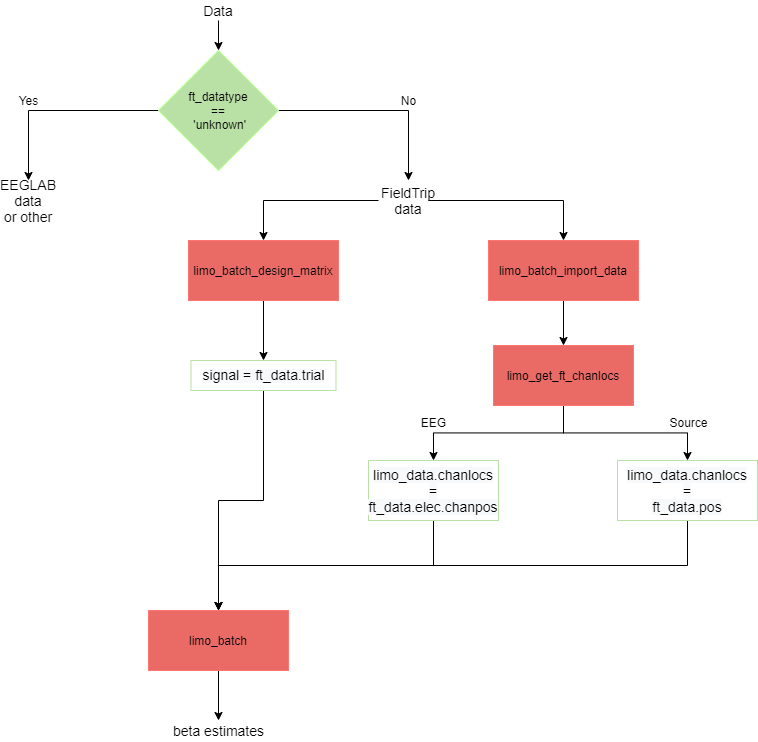
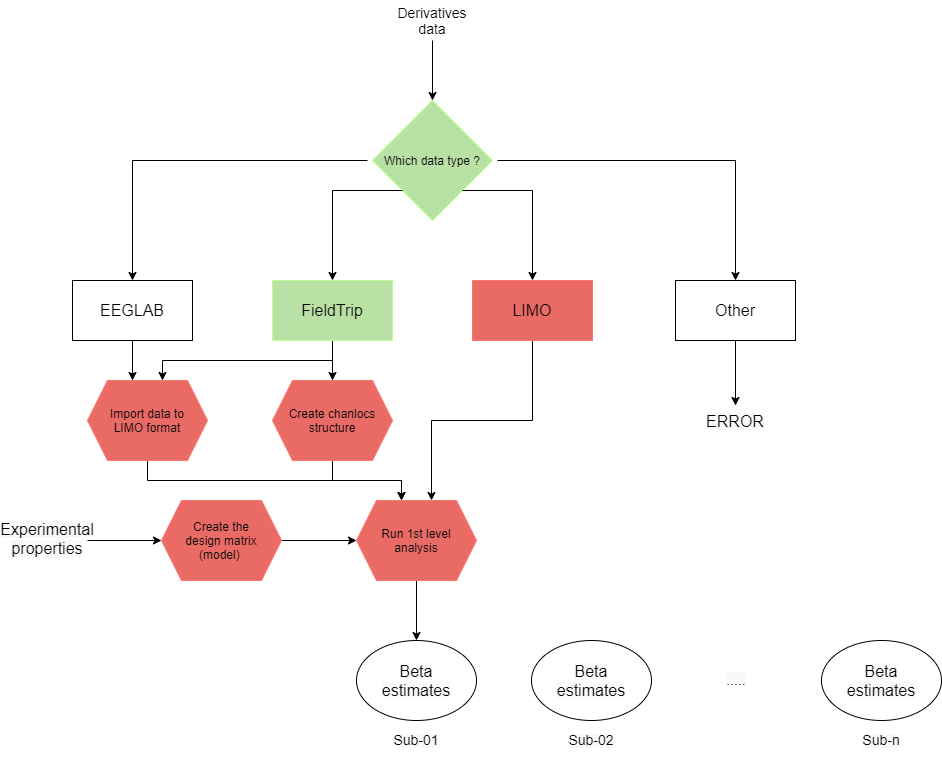
DEV - updated LIMO documentation

diff --git a/getting_started/limo.md b/getting_started/limo.md
@@ -7,7 +7,7 @@ tags: [statistics, GLM, limo, eeg]
 
 ## Background
 
-**[LIMO EEG](https://github.com/LIMO-EEG-Toolbox/limo_tools/wiki)** is a free open source and open development toolbox for the statistical analysis of EEG data. The main goal of the toolbox is the analysis and formal testing for experimental effects at all electrodes/sensors and
+**[LIMO EEG](https://github.com/LIMO-EEG-Toolbox/limo_tools/wiki)** is a free open source and open development toolbox for the statistical analysis of EEG data ([Pernet *et al.*, 2011](https://doi.org/10.1155/2011/831409)). The main goal of the toolbox is the analysis and formal testing for experimental effects at all electrodes/sensors and
 all time points of EEG recordings, as well as in source space. LIMO EEG offers a large range of statistical features:
 - Tests (including many popular designs): linear regressions, ANOVAs, ANCOVAs.
 - Methods: mass univariate general linear analysis, spatiotemporal clustering and bootstrapping for multiple comparison correction
@@ -15,7 +15,7 @@ all time points of EEG recordings, as well as in source space. LIMO EEG offers a
 	1. within-subject variance (single trial analyses)
 	2. between-subject variance
 
-The following figure illustrates the hierarchical analysis [1]:
+The following figure illustrates the hierarchical analysis:
 ![LIMO hierarchical analysis](/assets/img/getting_started/limo/herarchical_analysis.png)
 {% include image src="/assets/img/getting_started/limo/herarchical_analysis.png" width="300" %}
 
@@ -28,27 +28,42 @@ Although the toolbox is primarily designed for EEG data, LIMO EEG can process ME
 
 ## Data format
 
-As LIMO EEG directly reads and writes data from/to disk, the recommended way to design the dataset is through **[Brain Imaging Data Structure (BIDS) standard](https://bids.neuroimaging.io/index.html)**. This standard aims to organise and describe neuroimaging data in a uniform way to simplify data sharing through the scientific community. The following figure gives an example of BIDS EEG dataset [2]:
-![BIDS EEG dataset](/assets/img/getting_started/limo/BIDS_example.png)
-{% include image src="/assets/img/getting_started/limo/BIDS_example.png" width="300" %}
+As LIMO EEG directly reads and writes data from/to disk, the recommended way to design the dataset is through **[Brain Imaging Data Structure (BIDS) standard](https://bids.neuroimaging.io/index.html)**. This standard aims to organise and describe neuroimaging data in a uniform way to simplify data sharing through the scientific community. An example of BIDS EEG dataset can be found [here](https://www.fieldtriptoolbox.org/example/bids/).
+
+The inputs of LIMO statistical analyses are preprocessed and segmented data (EEG or source signal). Following BIDS standard, those data are stored as derivatives data. 
+
+** !!!!!** LIMO reads BIDS ** DERIVATIVES ** ! => ....
 
 Organising a dataset following BIDS standard can be done through [data2bids](https://github.com/fieldtrip/fieldtrip/blob/release/data2bids.m) function. We also designed a simplified function to reorganise a dataset through the [create_bids](https://github.com/LucaLaFisca/LIMO-for-FieldTrip/blob/main/utils/create_bids.m) function.
 
+** ADD LINKS TO https://www.fieldtriptoolbox.org/example/bids/, https://www.fieldtriptoolbox.org/example/bids_eeg/ instead of GitHub page**
+** MOVE THE FIGURE TO BIDS EXAMPLE DOC  => https://www.fieldtriptoolbox.org/example/bids/   so, add an overview of BIDS and what FT can do with it (read and create BIDS data)**
+
+
 ## How does FieldTrip use LIMO EEG?
 
-Currently, there is no FieldTrip function that directly calls LIMO tools. However, a statfun could be created to perform specific statistical analyses with LIMO. The following figure shows how it could be implemented:
+Currently, there is no FieldTrip function that directly calls LIMO tools. Does not fit the way ft_statistics works... memory vs disk...
+
+However, a "statfun" could be created to perform specific statistical analyses with LIMO. The following figure shows how it could be implemented:
 ![FieldTrip uses LIMO](/assets/img/getting_started/limo/FieldTrip_uses_LIMO.png)
 {% include image src="/assets/img/getting_started/limo/FieldTrip_uses_LIMO.png" width="300" %}
 
 ## How does LIMO EEG use FieldTrip?
+
+** CHANGE THE FIGURE TO KEEP ANALOGY BETWEEN EEGLAB AND FIELDTRIP **
 LIMO EEG integrates FieldTrip functions to deal with FieldTrip data structures. As the statistical analyses require specific information, **[ft_datatype](https://www.fieldtriptoolbox.org/reference/ft_datatype/)** function allows the algorithm to define the structure and extract required field. Then, LIMO functions convert them to the appropriate format. The following figure illustrates this process:
 ![LIMO uses FieldTrip](/assets/img/getting_started/limo/LIMO_uses_FieldTrip.png)
 {% include image src="/assets/img/getting_started/limo/LIMO_uses_FieldTrip.png" width="300" %}
 
-
-## Complementary use of both toolboxes
+** example framework **
 
 Processing data through FieldTrip functions and performing statistical analyses on the proceesed data is made easy by the compatibility of LIMO EEG to FieldTrip data structures. The users can directly design a model with FieldTrip data as input (following BIDS standard). The following code gives an example of how to perform a statistical analysis on a dataset containing 2 categories and 4 covariates:
+
+** CHANGE THE STUDY TO FACE PAPER (https://github.com/fieldtrip/fieldtrip/blob/release/data2bids.m) AND EXPLAIN WHAT ARE THE CATEGORIES AND WHAT IS THE COVARIATE (TIME FROM 1ST PRESENTATION) **
+
+** ADD trialinfo screenshot to explain the dataset (cat, cov, ...) **
+
+** ADD information about specific subfunctions so that it can be understood by spm, ft and EEGLAB users (e.g. expectations about computation time)**
 
 ```
 % define the required paths

diff --git a/example/bids.md b/example/bids.md
@@ -5,6 +5,8 @@ tags: [bids, sharing]
 
 # BIDS - the brain imaging data structure
 
+The BIDS standard aims to organise and describe neuroimaging data in a uniform way to simplify data sharing through the scientific community.
+
 FieldTrip can read data from all MEG, EEG, iEEG and MRI file formats that are supported in BIDS. Furthermore, it includes the **[data2bids](https://github.com/fieldtrip/fieldtrip/blob/release/data2bids.m)** function to convert data to the BIDS structure. This function can convert data formats (if needed), and writes the accompanying "sidecar files" that contain metadata about channels, coordinates, events, etcetera to the .json and .tsv format.
 
 {% include markup/warning %}
@@ -12,6 +14,13 @@ We recommend that you convert your raw data to BIDS **prior** to implementing yo
 {% include markup/end %}
 
 The BIDS project overview is presented on <http://bids.neuroimaging.io>. You can read the full specification on <https://bids-specification.readthedocs.io>. Please note that BIDS is not only relevant for FieldTrip, but that it also been embraced by the SPM, EEGLAB, MNE-Python and BrainStorm developers, and of course by the MRI and fMRI community, for example on <https://openneuro.org>.
+
+The following figure gives an example of BIDS EEG dataset:
+
+![BIDS EEG dataset](/assets/img/example/bids/BIDS_example.png)
+{% include image src="/assets/img/example/bids/BIDS_example.png" width="300" %}
+
+As we can see in this example, BIDS standard specifies the directory structures as well as the file names not only for the data (1), but also includes information about acquisition parameters (2), stimuli (3), channels (4), electrodes position (5) and coordinate system (6).
 
 {% include markup/success %}
 The [EEG sedation](/workshop/madrid2019/bids_sedation) example is currently the most clean and comprehensive FieldTrip-specific demonstration of how to convert existing raw EEG data to BIDS.
